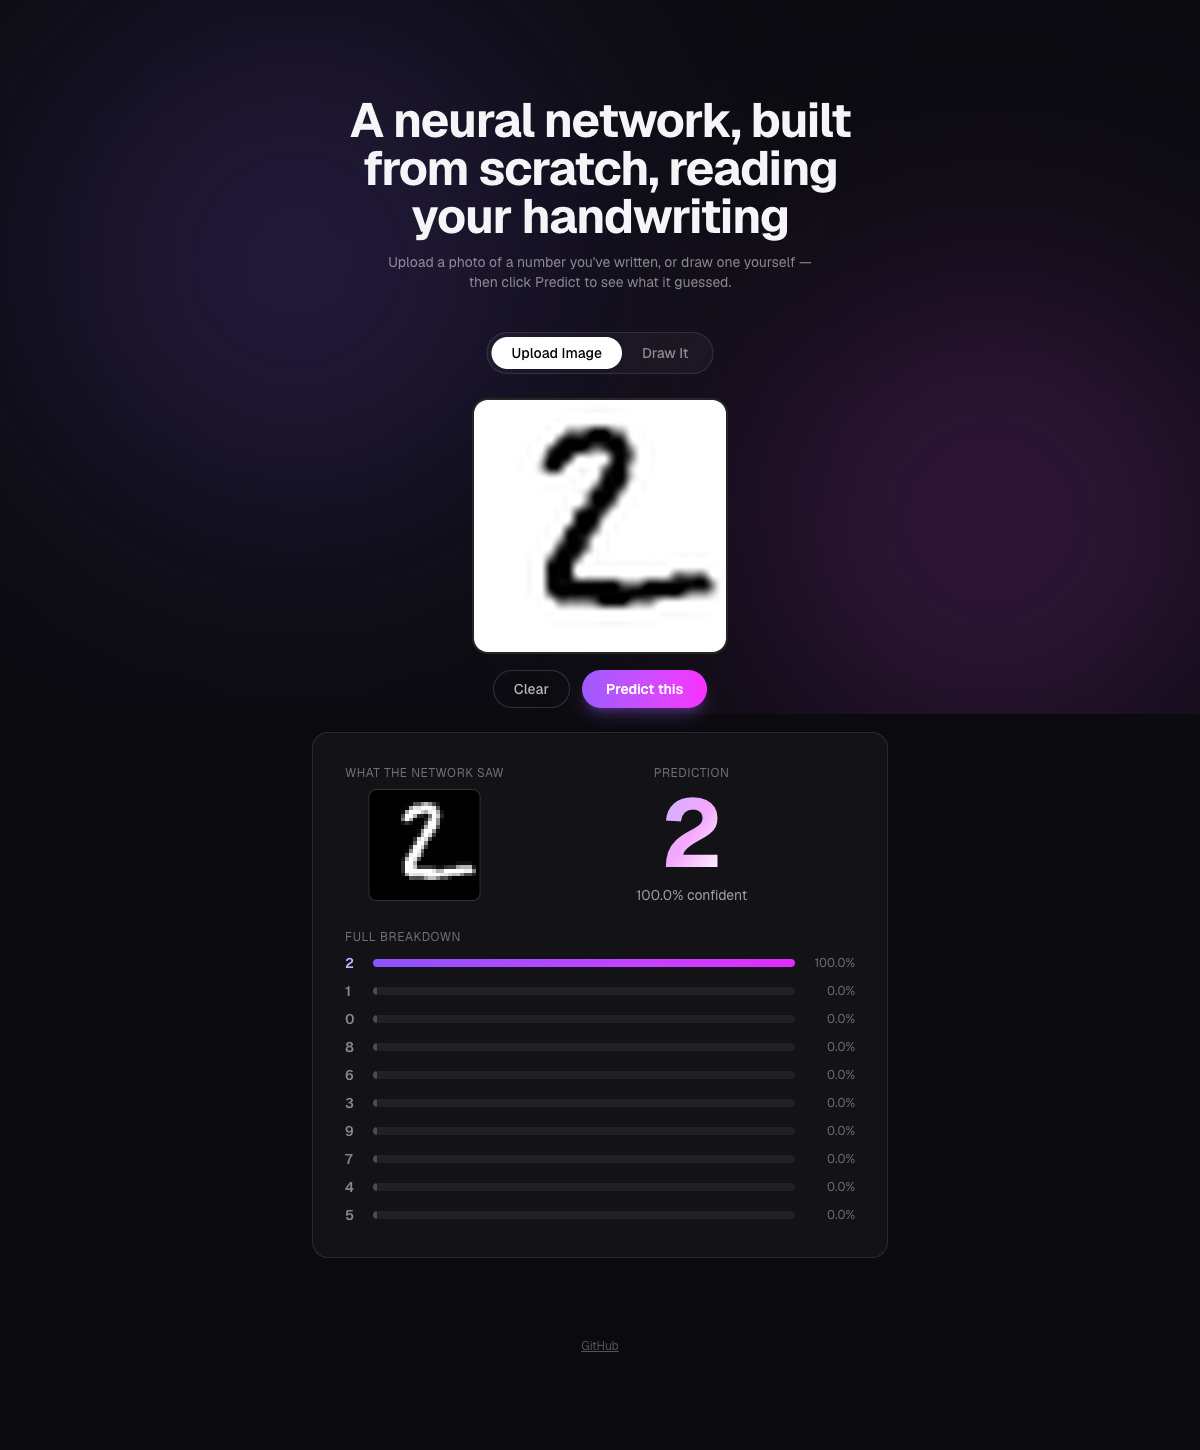
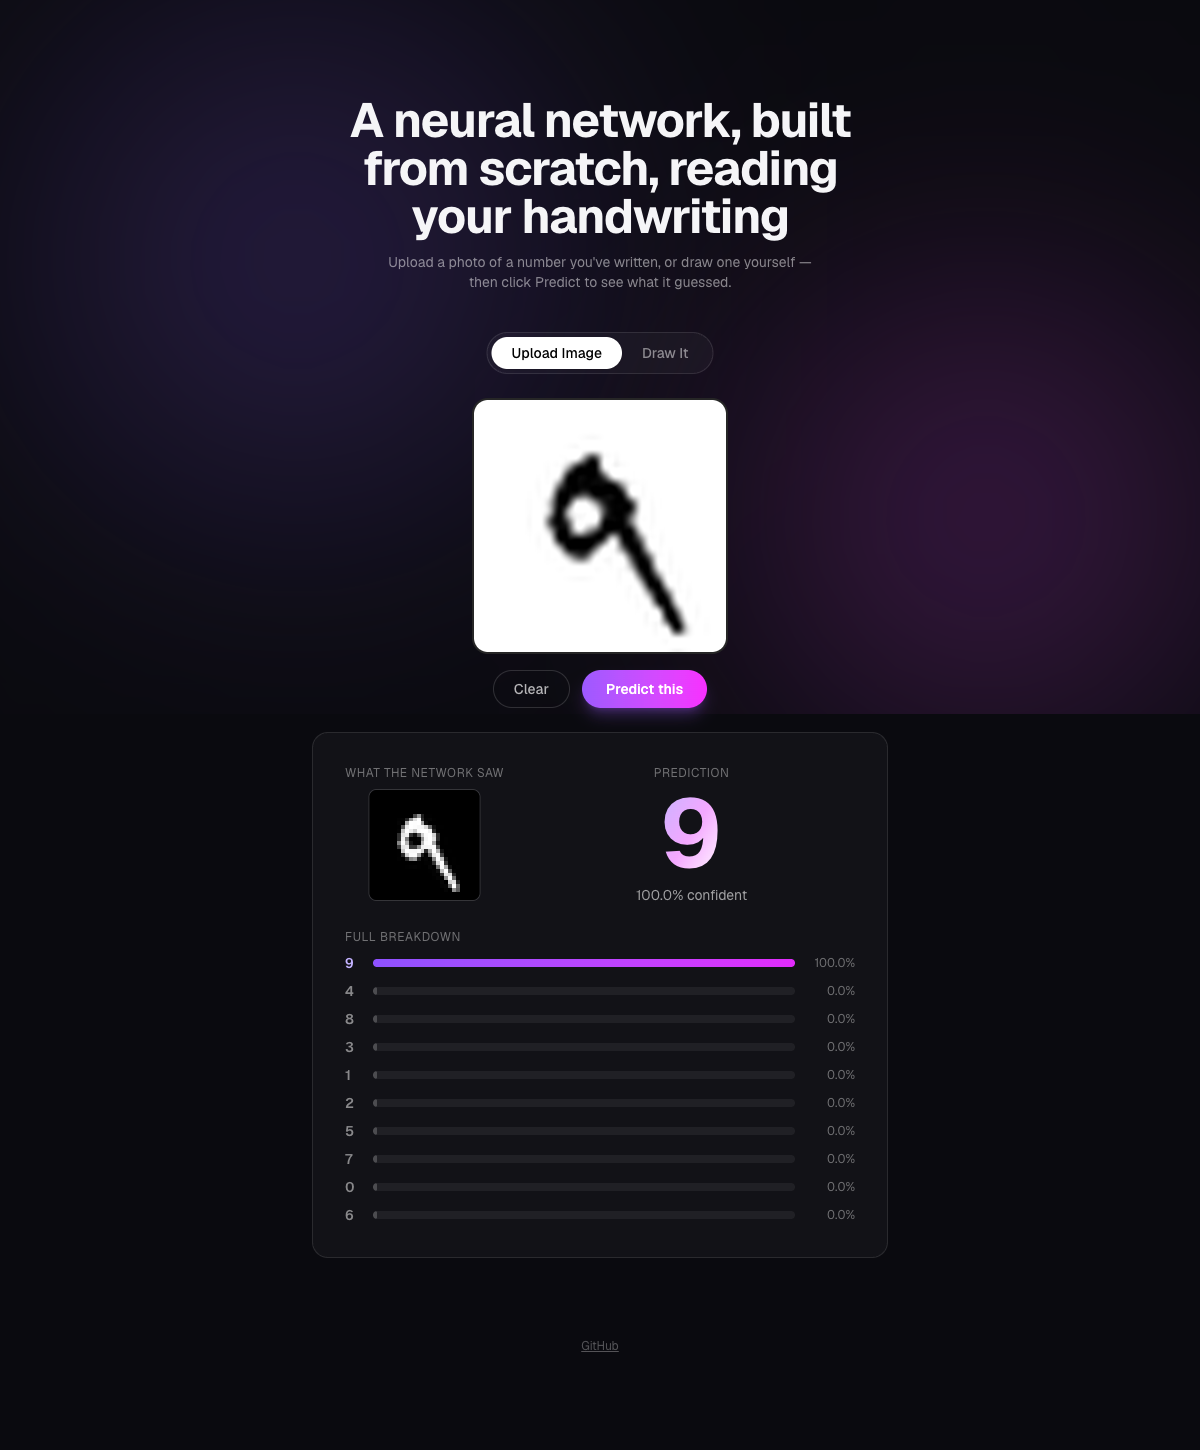
Refresh README screenshot from the deeper-CNN deployment

Changed region(s): [[0.4317, 0.2793, 0.6167, 0.4345], [0.3083, 0.5276, 0.4008, 0.6207], [0.555, 0.5586, 0.6167, 0.5897]]

diff --git a/README.md b/README.md
@@ -10,7 +10,7 @@ which trains the same network using nothing but NumPy.
 
 **🔗 Try it live: [mnist-digit-recognizer-coral.vercel.app](https://mnist-digit-recognizer-coral.vercel.app)**
 
-![Screenshot of the app correctly identifying an uploaded "2" with 100.0% confidence](docs/screenshot.png)
+![Screenshot of the app correctly identifying an uploaded "9" with 100.0% confidence](docs/screenshot.png)
 
 ## How it works
 
